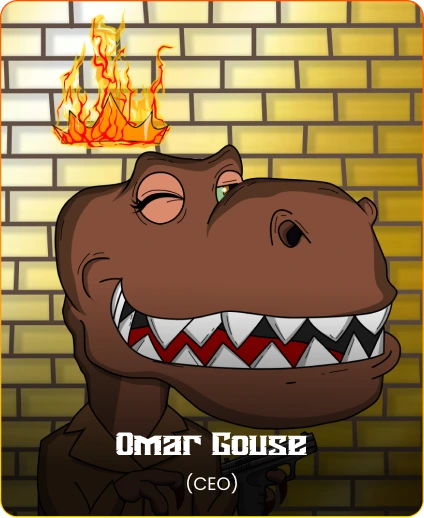
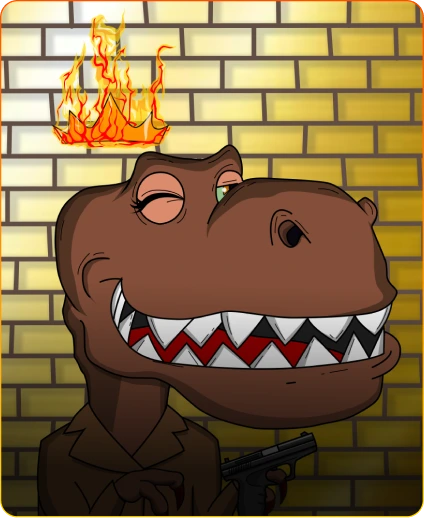
changes

Changed region(s): [[0.2759, 0.834, 0.7358, 0.9575]]

diff --git a/src/components/Team.jsx b/src/components/Team.jsx
@@ -1,0 +1,49 @@
+import React from "react";
+import { Col, Container, Row } from "react-bootstrap";
+import dragon1 from "../assets/images/webp/team_1_dragon.webp";
+import dragon2 from "../assets/images/webp/team_2_dragon.webp";
+import dragon3 from "../assets/images/webp/team_3_dragon.webp";
+const Team = () => {
+  return (
+    <>
+      <section className="team_bg py-5">
+        <Container>
+          <h2 className="ff_agnostic text-white mb-xxl-5 pb-lg-5 pb-4 fs_6xl fw-normal text-center">
+            Team
+          </h2>
+          <Row className="justify-content-center">
+            <Col lg={4} md={6}>
+              <div className="position-relative team_card transition_3s">
+                <img className="w-100" src={dragon1} alt="dragon" />
+                <div className="position-absolute on_image_text">
+                  <h4 className="ff_agnostic fs_4xl fw-normal text-white text-center white_s_nowrap">Omar Gouse</h4>
+                  <p className="ff_poppins text-white fw-normal fs_md text-center">(CEO)</p>
+                </div>
+              </div>
+            </Col>
+            <Col lg={4} md={6}>
+              <div className="position-relative team_card transition_3s pt-3 pt-md-0">
+                <img className="w-100" src={dragon2} alt="dragon" />
+                <div className="position-absolute on_image_text">
+                  <h4 className="ff_agnostic fs_4xl fw-normal text-white text-center white_s_nowrap">Omar Gouse</h4>
+                  <p className="ff_poppins text-white fw-normal fs_md text-center">(CEO)</p>
+                </div>
+              </div>
+            </Col>
+            <Col lg={4} md={6}>
+              <div className="position-relative team_card transition_3s pt-3 pt-lg-0">
+                <img className="w-100" src={dragon3} alt="dragon" />
+                <div className="position-absolute on_image_text">
+                  <h4 className="ff_agnostic fs_4xl fw-normal text-white text-center white_s_nowrap">Omar Gouse</h4>
+                  <p className="ff_poppins text-white fw-normal fs_md text-center">(CEO)</p>
+                </div>
+              </div>
+            </Col>
+          </Row>
+        </Container>
+      </section>
+    </>
+  );
+};
+
+export default Team;

diff --git a/src/sumit.css b/src/sumit.css
@@ -22,3 +22,19 @@
   -webkit-text-fill-color: transparent;
 }
 /*------------------------------------------ team section -------------------------------*/
+.team_bg {
+  background-image: url(../src/assets/images/webp/team_bg.webp);
+  background-repeat: no-repeat;
+  background-size: cover;
+}
+.on_image_text {
+  bottom: 0;
+  left: 50%;
+  transform: translateX(-50%);
+}
+.team_card :hover {
+  box-shadow: 0px 4px 41px 0px rgba(254, 215, 16, 0.5);
+  backdrop-filter: blur(31.574848175048828px);
+  border-radius: 16px;
+}
+

diff --git a/src/App.js b/src/App.js
@@ -5,12 +5,14 @@ import "../src/sumit.css";
 import "bootstrap/dist/css/bootstrap.min.css";
 import WelcomeTo from "./components/WelcomeTo";
 import Roadmap from "./components/Roadmap";
+import Team from "./components/Team";
 
 function App() {
   return (
     <>
       <WelcomeTo />
       <Roadmap/>
+      <Team/>
     </>
   );
 }

diff --git a/src/App.css b/src/App.css
@@ -1,5 +1,5 @@
 /* utilites classes */
-
+.white_s_nowrap{white-space: nowrap;}
 .opcity_07 {
   opacity: 0.7;
 }
@@ -12,6 +12,7 @@
   -webkit-background-clip: text;
   -webkit-text-fill-color: transparent;
 }
+.transition_3s{transition: all 300ms linear;}
 
 .py_14 {
   padding-top: 14px;
